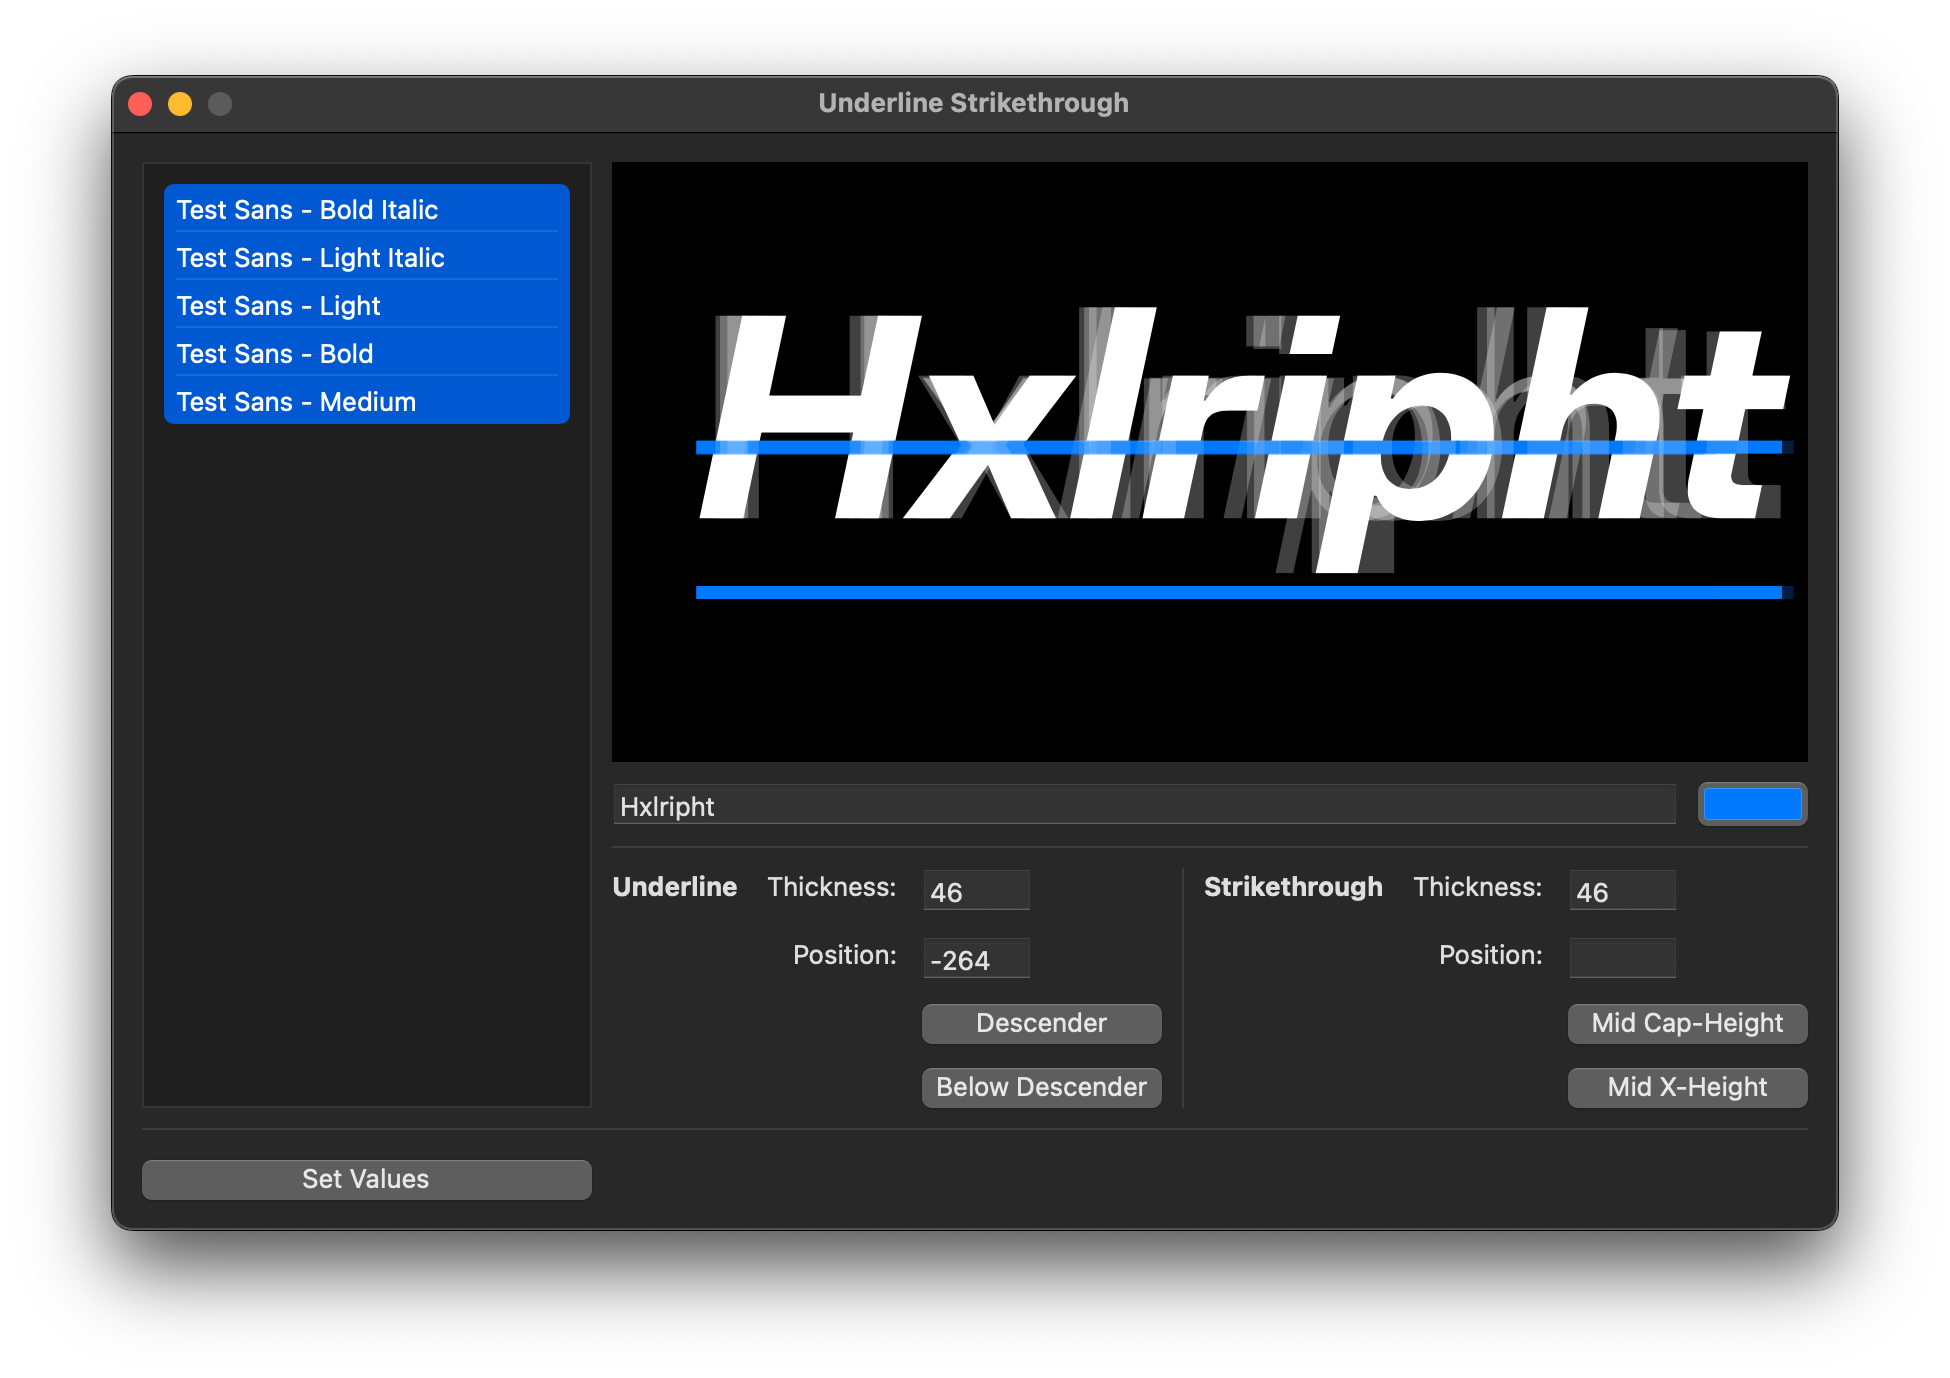
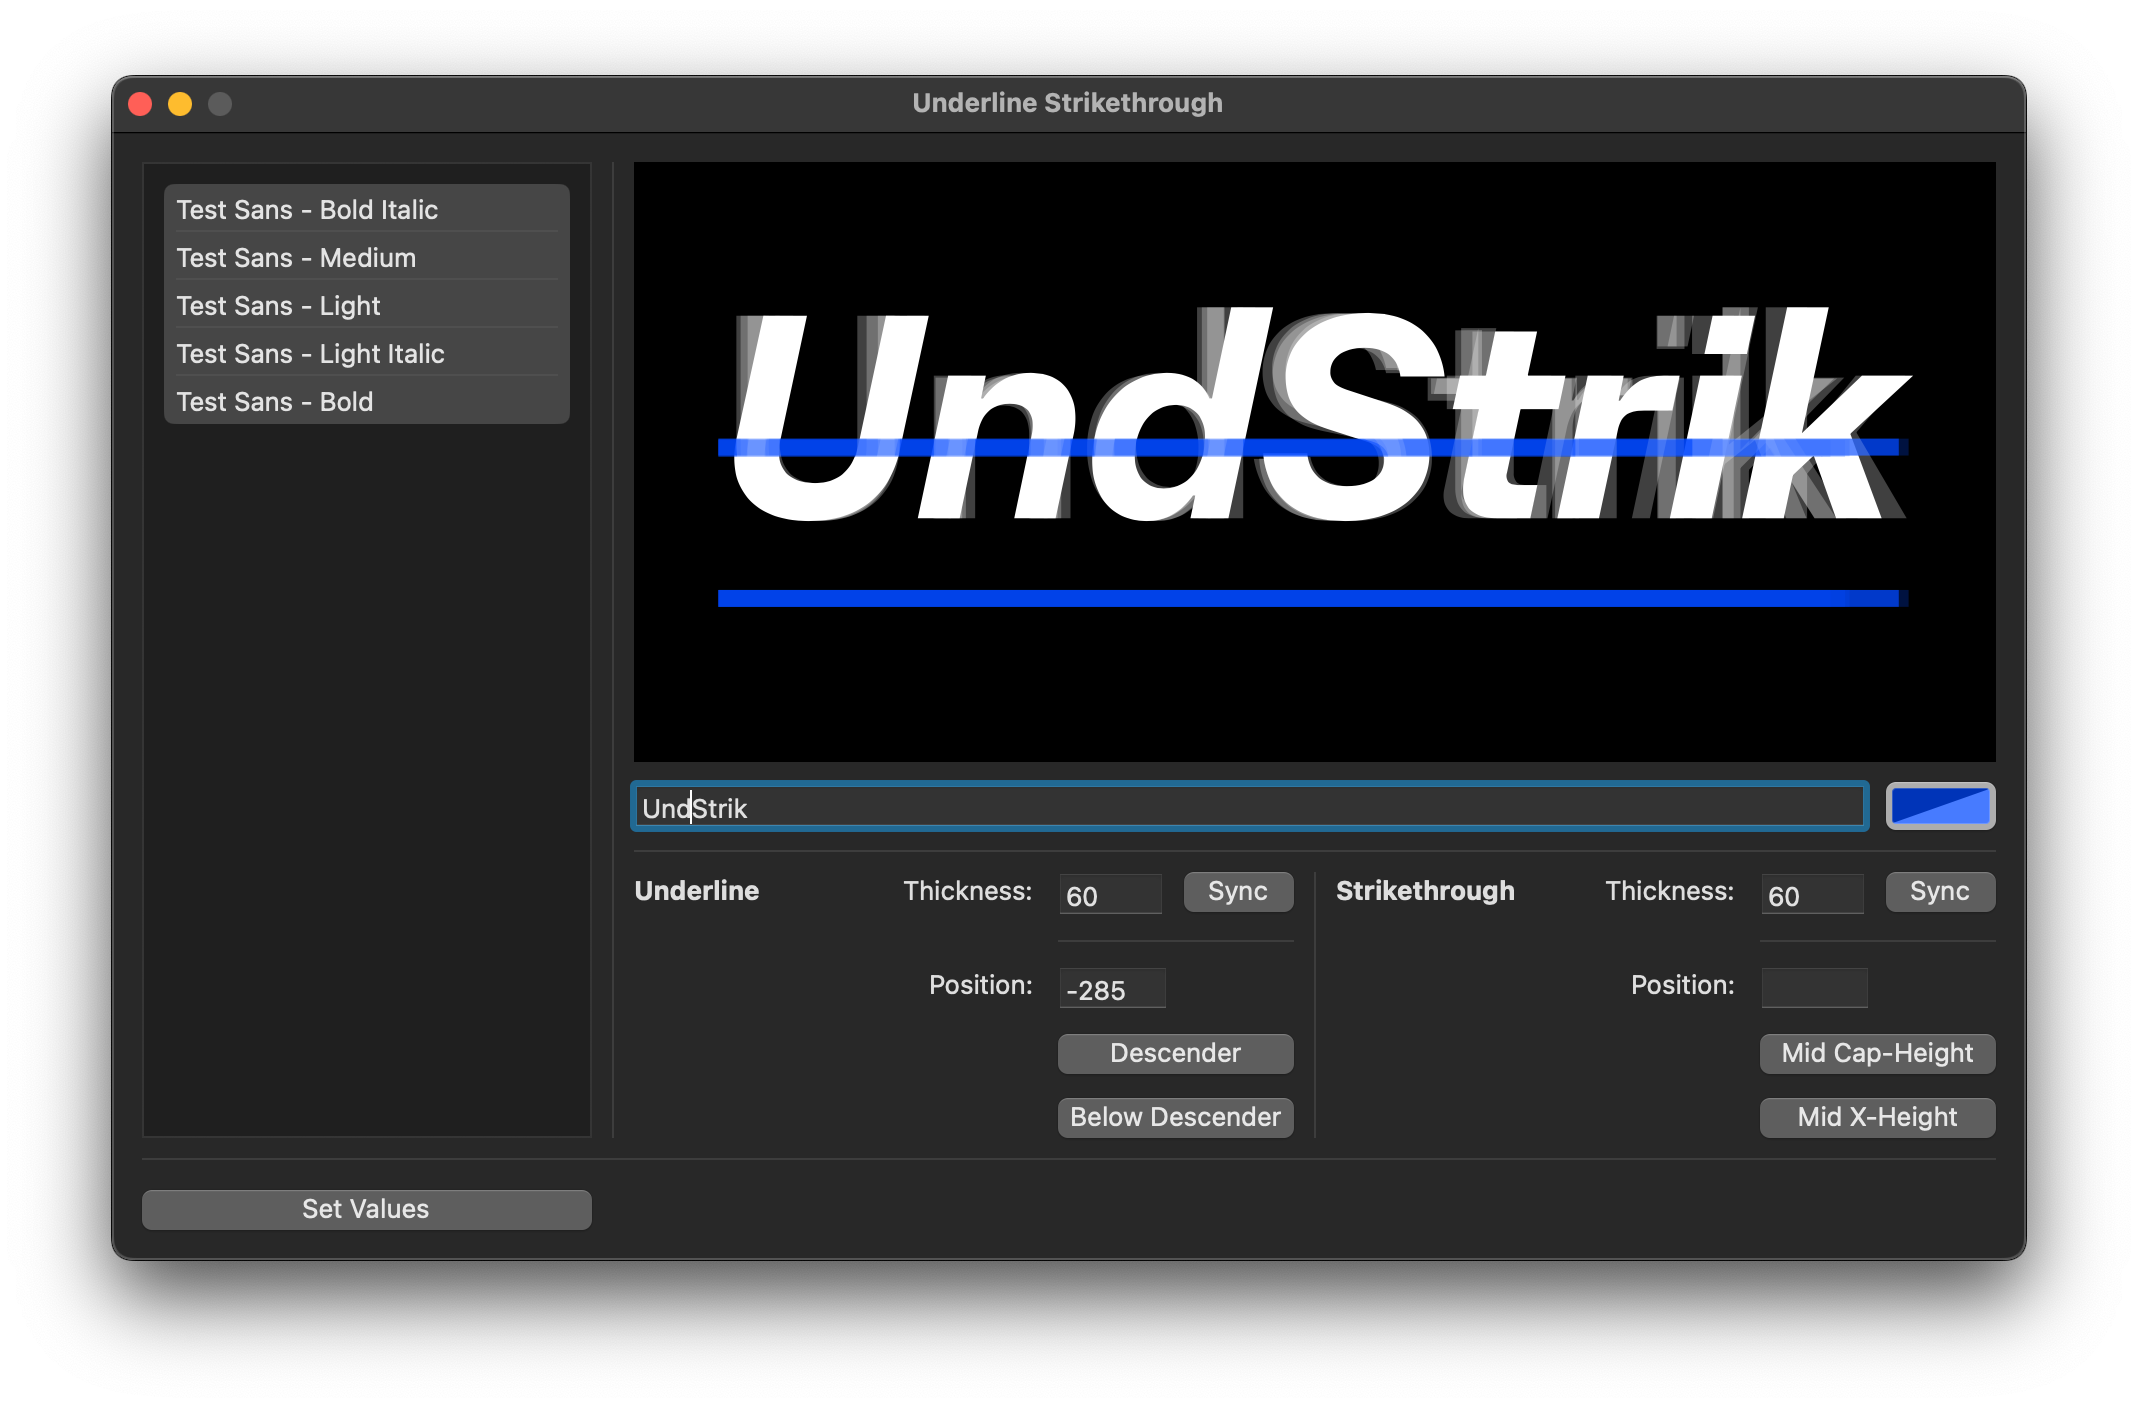
Version, timestamp, README, final cleanup

Changed region(s): [[0.0308, 0.0312, 0.9538, 0.9049], [0.4, 0.6865, 0.6154, 0.8113], [0.2769, 0.6241, 0.5231, 0.6553]]

diff --git a/Underline Strikethrough.roboFontExt/lib/Underline StrikeThrough.py b/Underline Strikethrough.roboFontExt/lib/Underline StrikeThrough.py
@@ -22,7 +22,7 @@ class UnderlineStrikethrough(Subscriber, ezui.WindowController):
     def build(self):
         content = """
         * HorizontalStack  
-        > |-----|                 @table
+        > |-----|                  @table
         > |     |
         > |-----|
         
@@ -30,17 +30,17 @@ class UnderlineStrikethrough(Subscriber, ezui.WindowController):
         
         > * VerticalStack
         
-        >> * MerzView             @merzView
+        >> * MerzView              @merzView
         
-        >> * HorizontalStack      @textArea
-        >>> [_ _]                 @testText
-        >>> * ColorWell           @colorWell
+        >> * HorizontalStack       @textArea
+        >>> [_ _]                  @testText
+        >>> * ColorWell            @colorWell
         
         >> ---
         
         >> * HorizontalStack
         
-        >>> !!!!! Underline       @ulLabel
+        >>> !!!!! Underline        @ulLabel
         
         >>> * VerticalStack
         
@@ -82,7 +82,7 @@ class UnderlineStrikethrough(Subscriber, ezui.WindowController):
         """
         footer="""
         !- All values have been written into their respective UFOs.  @setAllLabel 
-        (Set Values)              @setAllButton
+        (Set Values)               @setAllButton
         """
         
         tableWidth  = 225
@@ -275,13 +275,10 @@ class UnderlineStrikethrough(Subscriber, ezui.WindowController):
         return identifier
         
     def getFontDisplayName(self, font):
-        needsSave = " (Needs Save)"
         if font.info.familyName and font.info.styleName:
             displayName = font.info.familyName + " - " + font.info.styleName
         else:
             displayName = font.fontWindow().w.getNSWindow().title()
-        if not font.path:
-            displayName += needsSave
         return displayName
         
     def updateFontList(self):

diff --git a/README.md b/README.md
@@ -19,7 +19,7 @@ This lists all currently-open UFOs. This now auto-updates when fonts are opened 
 - **Preview Color:** This is the color you would like the underline and strikethrough preview to have. *The extension will remember your settings for next time.*
 
 ### Underline Settings
-- **Thickness:** The thickness of the underline. This corresponds to `font.info.postscriptUnderlineThickness`. 
+- **Thickness:** The thickness of the underline. This corresponds to `font.info.postscriptUnderlineThickness`. Click "Sync" to set it to match the strikethrough thickness.
 - **Position:** The position of the underline (the top of the line). This corresponds to `font.info.postscriptUnderlinePosition`. 
 - **Snap to Descender:** This will snap the descender value  of selected fonts to bottom-align with `font.info.descender`. *Note: this will not write the values into the font yet. This is just a quick operation for your convenience.*
 - **Snap to Below Descender:** This will snap the descender value of selected fonts to an underline-thickness-distance below `font.info.descender`. *Note: this will not write the values into the font yet. This is just a quick operation for your convenience.*
@@ -27,7 +27,7 @@ This lists all currently-open UFOs. This now auto-updates when fonts are opened 
 Read [here](https://learn.microsoft.com/en-us/typography/opentype/spec/post) for more guidance on setting these values.
 
 ### Strikethrough Settings
-- **Thickness:** The thickness of the strikethrough line. This corresponds to `font.info.openTypeOS2StrikeoutSize`. 
+- **Thickness:** The thickness of the strikethrough line. This corresponds to `font.info.openTypeOS2StrikeoutSize`. Click "Sync" to set it to match the underline thickness.
 - **Position:** The position of the strikethrough line (the top of the line). This corresponds to `font.info.openTypeOS2StrikeoutPosition`. 
 - **Snap to Mid-Cap-Height:** This will snap the strikethrough value of selected fonts to the mid-point between the baseline and `font.info.capHeight`. *Note: this will not write the values into the font yet. This is just a quick operation for your convenience.*
 - **Snap to Mid-X-Height:** This will snap the strikethrough value of selected fonts to the mid-point between the baseline and `font.info.xHeight`. *Note: this will not write the values into the font yet. This is just a quick operation for your convenience.*
